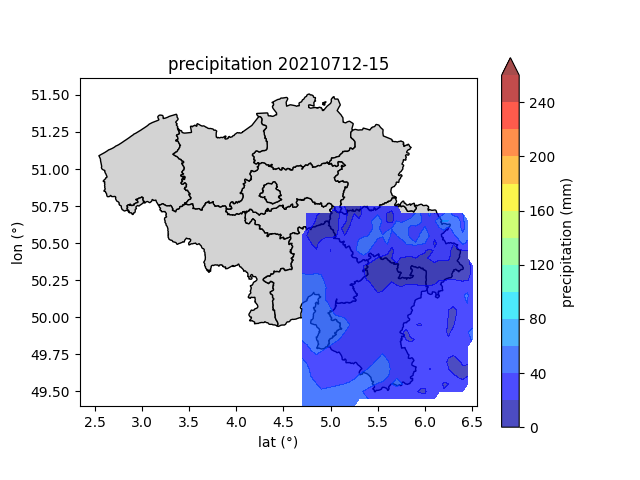
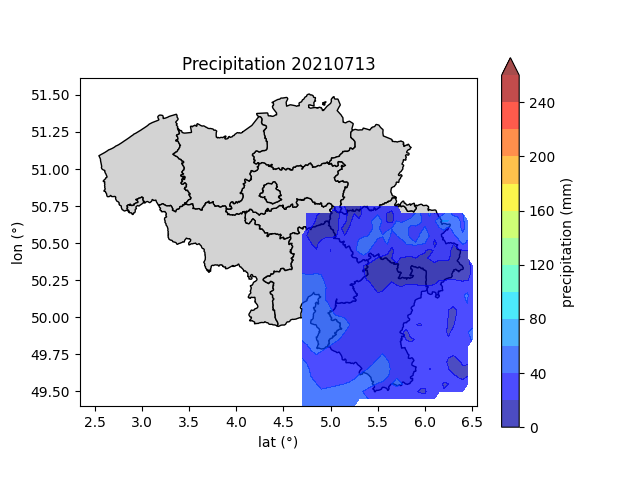
title fix

Changed region(s): [[0.25, 0.0938, 0.625, 0.1562]]

diff --git a/observations/pws_map_pol.py b/observations/pws_map_pol.py
@@ -32,8 +32,8 @@ ax = gdf.to_crs(epsg=4326).plot(color='lightgrey', edgecolor="black")
 
 plt.contourf(xi, yi, zi, np.arange(0, 280, 20),
              alpha=0.7, cmap=cm.jet, extend='max')
-#plt.title(f"Precipitation {date}")
-plt.title("precipitation 20210712-15")
+plt.title(f"Precipitation {date}")
+#plt.title("precipitation 20210713")
 plt.colorbar(label="precipitation (mm)")
 plt.xlabel("lat (°)")
 plt.ylabel("lon (°)")
